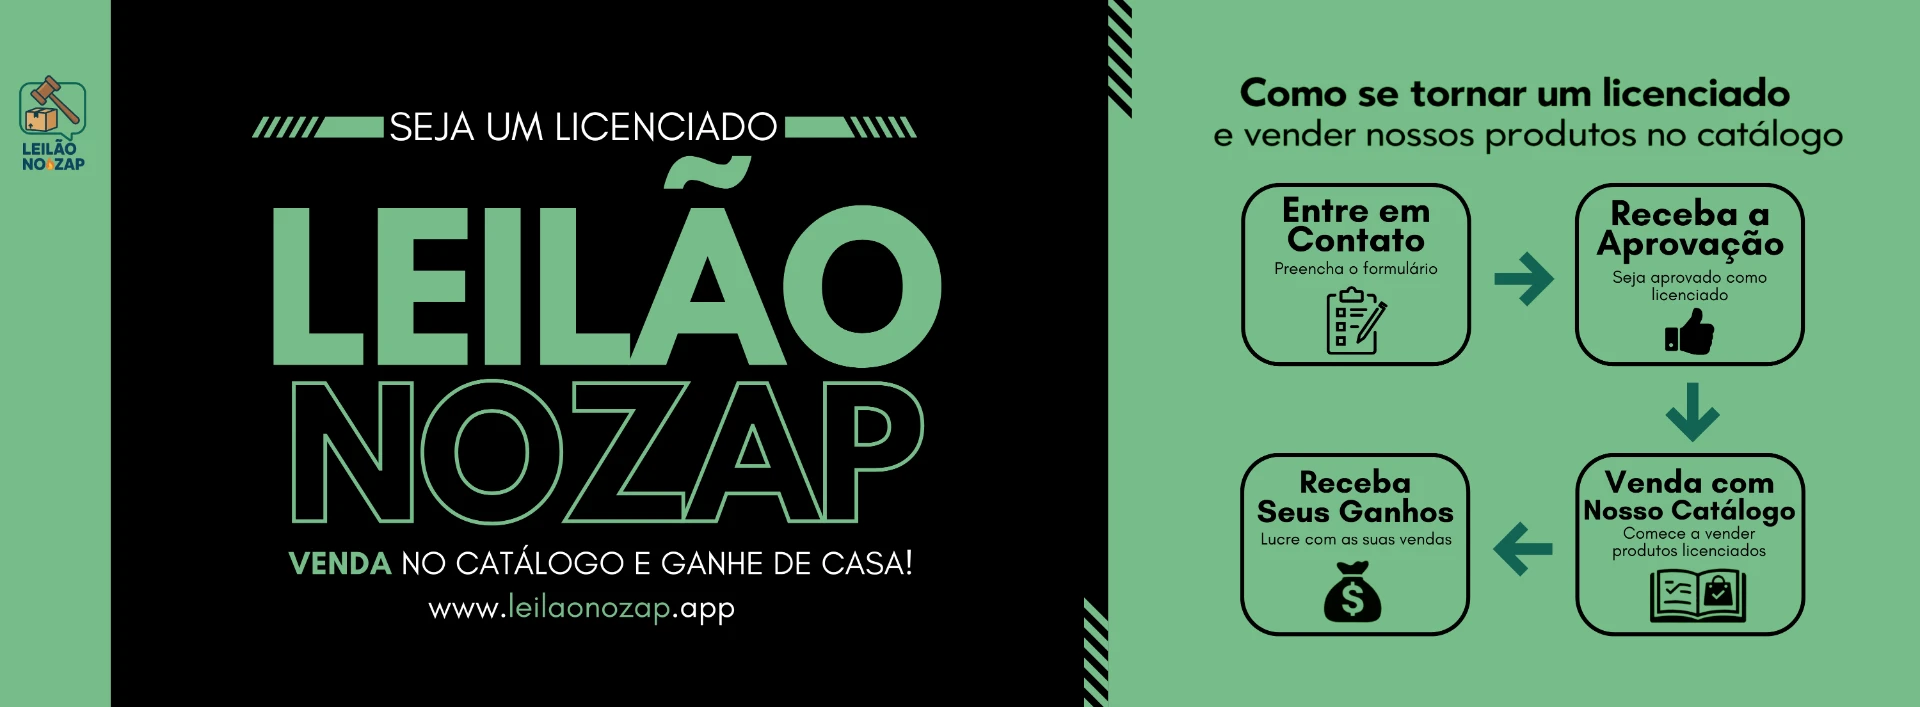
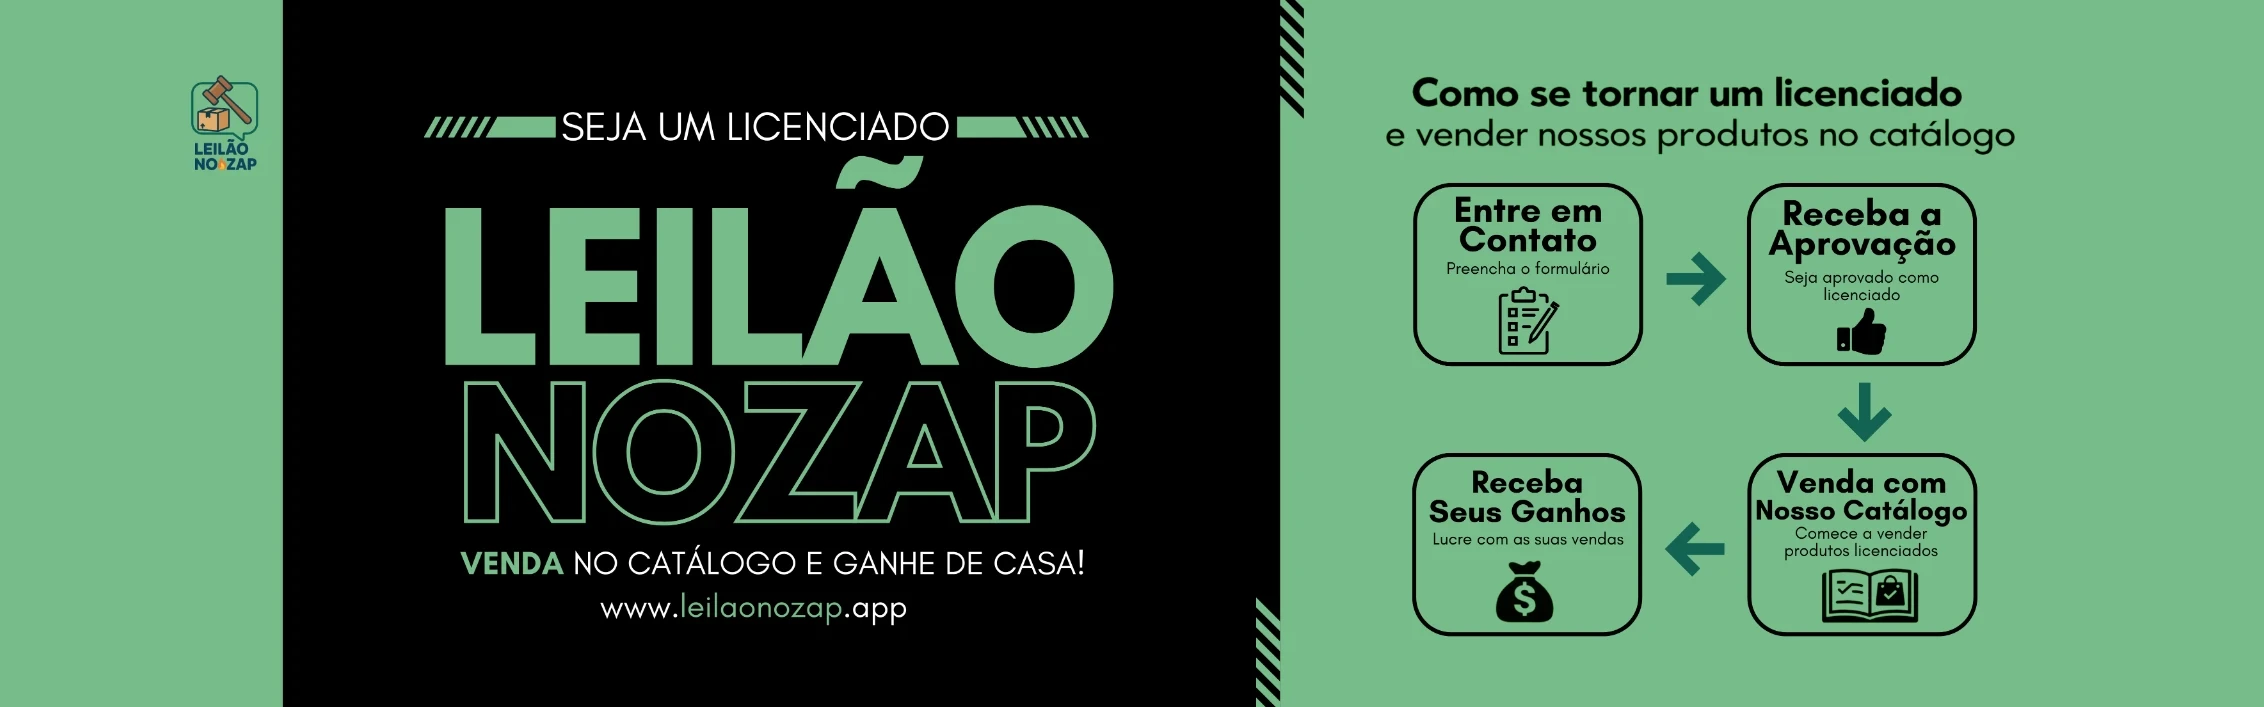
fix(loja): banner5 estendido pra 16:5 (preenche igual aos outros, sem barras/corte) + remove 'Ao Vivo' da navbar
- banner5 (era 1920x707) ganha faixas verdes laterais (cor do fundo) virando 2264x707 (~16:5); enche a largura sem cortar texto nem deixar barra preta
- remove o setor 'Ao Vivo' da navbar (duplicava o botão rosa 'AO VIVO AGORA')

diff --git a/src/lib/sectors.js b/src/lib/sectors.js
@@ -32,19 +32,8 @@ export const SECTORS = [
       { title: '👑 Collection', desc: 'Itens de luxo selecionados', page: 'LuxuryCollection' },
     ],
   },
-  {
-    key: 'aovivo',
-    title: 'Ao Vivo',
-    emoji: '🔴',
-    // 📺 A ÚNICA plataforma de live do grupo é a Livoo Live (decisão do Santana, 14/07).
-    // O Live Shop interno foi aposentado — tudo aqui aponta pro feed da Livoo.
-    external: LIVOO_FEED,
-    live: true,                          // pulso vermelho no menu
-    blurb: 'Compre ao vivo, com o vendedor na tela',
-    items: [
-      { title: 'Livoo Live', desc: 'As lives acontecem na Livoo — assista e compre', external: LIVOO_FEED },
-    ],
-  },
+  // 'Ao Vivo' removido da navbar (duplicava o botão "AO VIVO AGORA"). O acesso à live
+  // segue pelo botão rosa "AO VIVO AGORA" e pelo FAB da loja.
   {
     key: 'ganhar',
     title: 'Ganhe Dinheiro',
